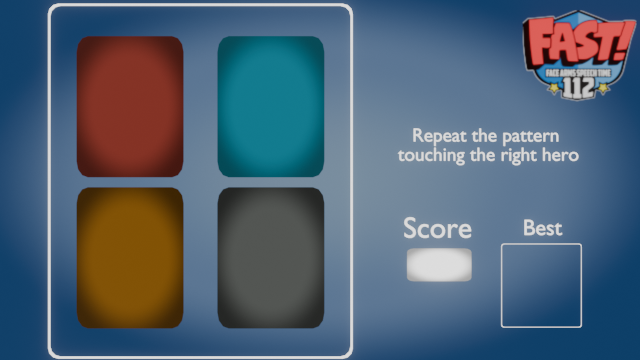
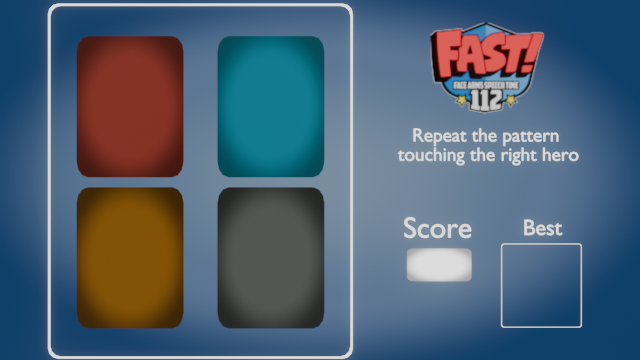
Design changes

Changed region(s): [[0.6562, 0.0306, 1.0, 0.3361]]

diff --git a/js/scenes/gameScene.js b/js/scenes/gameScene.js
@@ -145,7 +145,7 @@ gameScene.createText = function () {
 }
 
 gameScene.createBtns = function () {
-    this.btnPlay = this.add.sprite(400 * this.s, 50 * this.s, 'btplay').setInteractive();
+    this.btnPlay = this.add.sprite(490 * this.s, 190 * this.s, 'btplay').setInteractive();
     this.btnPlay.setScale(0.08 * this.s);
     this.btnPlay.on('pointerdown', () => {
         if (!this.onGame) {
